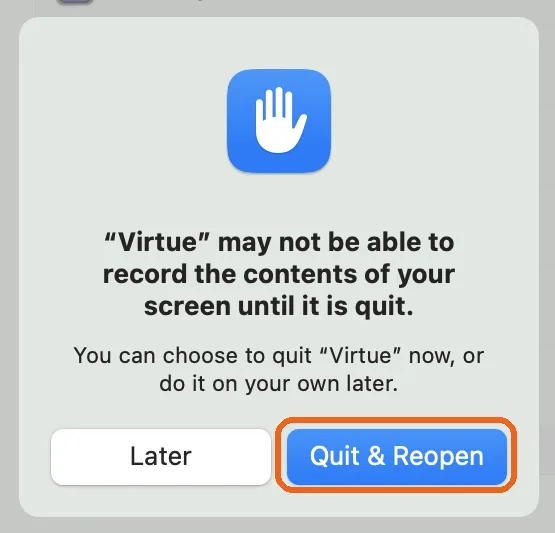
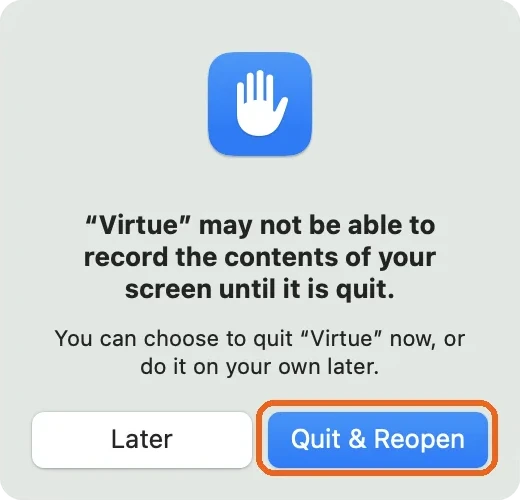
Show the Mac guide's quit-and-reopen dialog at its own size
The step 7 screenshot was a 555px crop with the desktop around the dialog,
stretched to the 620px desktop-screenshot width. It is now cropped to the
dialog with transparent rounded corners, and shows at 360px wide.

diff --git a/landing/src/styles/downloads.css b/landing/src/styles/downloads.css
@@ -287,3 +287,9 @@
 .instructions-tab-panel.help-doc img[src^='/images/ios-setup/'] {
   width: min(360px, 100%);
 }
+
+/* A small macOS dialog, so it would be blown up past its native size at the
+   full desktop-screenshot width. */
+.instructions-tab-panel.help-doc img[src$='/mac_setup_quit_reopen.webp'] {
+  width: min(360px, 100%);
+}
